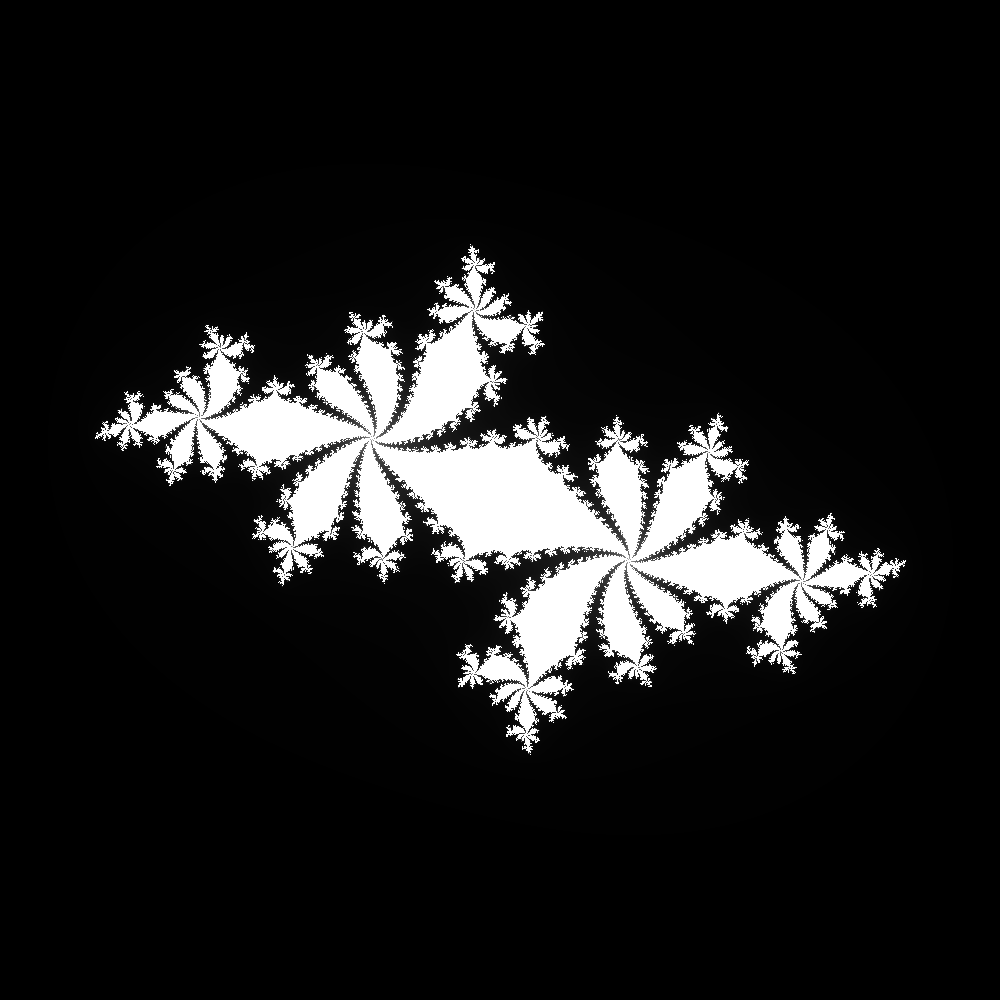
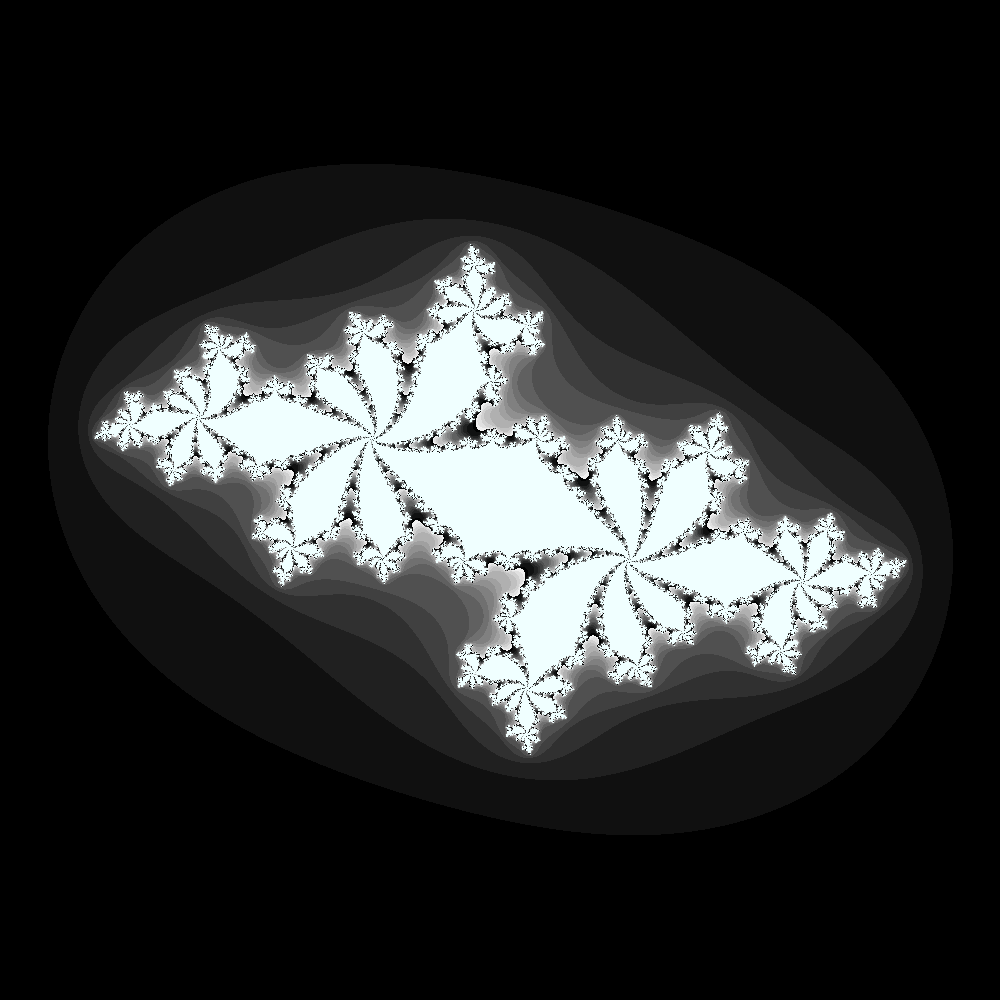
add julia2.py files

Changed region(s): [[0.062, 0.217, 0.93, 0.806]]

diff --git a/julia2.py b/julia2.py
@@ -28,22 +28,87 @@ def show_greyscale(output_raw, width, height, max_iterations):
 
 
 def show_false_greyscale(output_raw, width, height, max_iterations):
-    """Convert list to array, show using PIL"""
-    # convert our output to PIL-compatible input
-    assert width * height == len(output_raw)  # sanity check our 1D array and desired 2D form
-    # rescale output_raw to be in the inclusive range [0..255]
-    max_value = float(max(output_raw))
-    output_raw_limited = [int(float(o) / max_value * 255) for o in output_raw]
-    # create a slightly fancy colour map that shows colour changes with
-    # increased contrast (thanks to John Montgomery)
-    output_rgb = ((o + (256 * o) + (256 ** 2) * o) * 16 for o in output_raw_limited)  # fancier
-    output_rgb = array.array('I', output_rgb)  # array of unsigned ints (size is platform specific)
-    # display with PIL/pillow
-    im = Image.new("RGB", (width, height))
-    # EXPLAIN RGBX L 0 -1
-    im.frombytes(output_rgb.tobytes(), "raw", "RGBX", 0, -1)
-    im.save("julia1.png")
-    im.show()
+    """
+    Pillow Image.frombytes() 範例
+
+    需求
+    1. RGB 模式
+    2. raw data 值 0 ~ 300
+    3. 0 → 白色
+    4. 300 → 黑色
+    5. 中間值使用彩虹七色
+    6. 影像大小 1000x1000
+    """
+
+# ------------------------------------
+# 定義彩虹七色
+# ------------------------------------
+# 彩虹順序
+# Red → Orange → Yellow → Green → Blue → Indigo → Violet
+    rainbow_colors = [
+        (255, 0, 0),     # Red
+        (255, 127, 0),   # Orange
+        (255, 255, 0),   # Yellow
+        (0, 255, 0),     # Green
+        (0, 0, 255),     # Blue
+        (75, 0, 130),    # Indigo
+        (148, 0, 211)    # Violet
+    ]
+
+# 將 0~300 分成 7 段
+    STEP = max_iterations / len(rainbow_colors)
+
+# ------------------------------------
+# 建立 bytearray 儲存 RGB bytes
+# ------------------------------------
+    pixel_bytes = bytearray()
+
+# ------------------------------------
+# 產生測試 raw data
+# 這裡使用 x+y 做漸層示範
+# ------------------------------------
+    for value in output_raw:
+
+        # ------------------------------
+        # 特殊值處理
+        # ------------------------------
+        if value == 0:
+            r, g, b = (255, 255, 255)  # 白色
+
+        elif value >= 300:
+            r, g, b = (0, 0, 0)        # 黑色
+
+        else:
+            # --------------------------
+            # 計算彩虹階段
+            # --------------------------
+            index = int(value / STEP)
+
+            # 防止 index 超出範圍
+            if index >= len(rainbow_colors):
+                index = len(rainbow_colors) - 1
+
+            r, g, b = rainbow_colors[index]
+
+        # ------------------------------
+        # 加入 RGB bytes
+        # ------------------------------
+        pixel_bytes.extend([r, g, b])
+
+# ------------------------------------
+# 使用 Image.frombytes 建立影像
+# ------------------------------------
+    img = Image.frombytes(
+        mode="RGB",
+        size=(width, height),
+        data=bytes(pixel_bytes)
+    )
+
+# ------------------------------------
+# 儲存與顯示影像
+# ------------------------------------
+    img.save("julia2.png")
+    img.show()
 
 
 def calculate_z_serial_purepython(maxiter, zs, cs):

diff --git a/julia1_lineprofiler2.py b/julia1_lineprofiler2.py
@@ -25,7 +25,7 @@ def calculate_z_serial_purepython(maxiter, x, y, d_w):
                     z = z * z + c
                     n += 1
                 output[i] = n
-                i = i+1
+                i = i + 1
     time.sleep(0.25)
     return output
 
@@ -61,7 +61,6 @@ def calc_pure_python(draw_output, desired_width, max_iterations):
     print(calculate_z_serial_purepython.__name__ + " took", secs, "seconds")
 
     assert sum(output) == 33219980  # this sum is expected for 1000^2 grid with 300 iterations
-
 
 
 # Calculate the Julia set using a pure Python solution with
